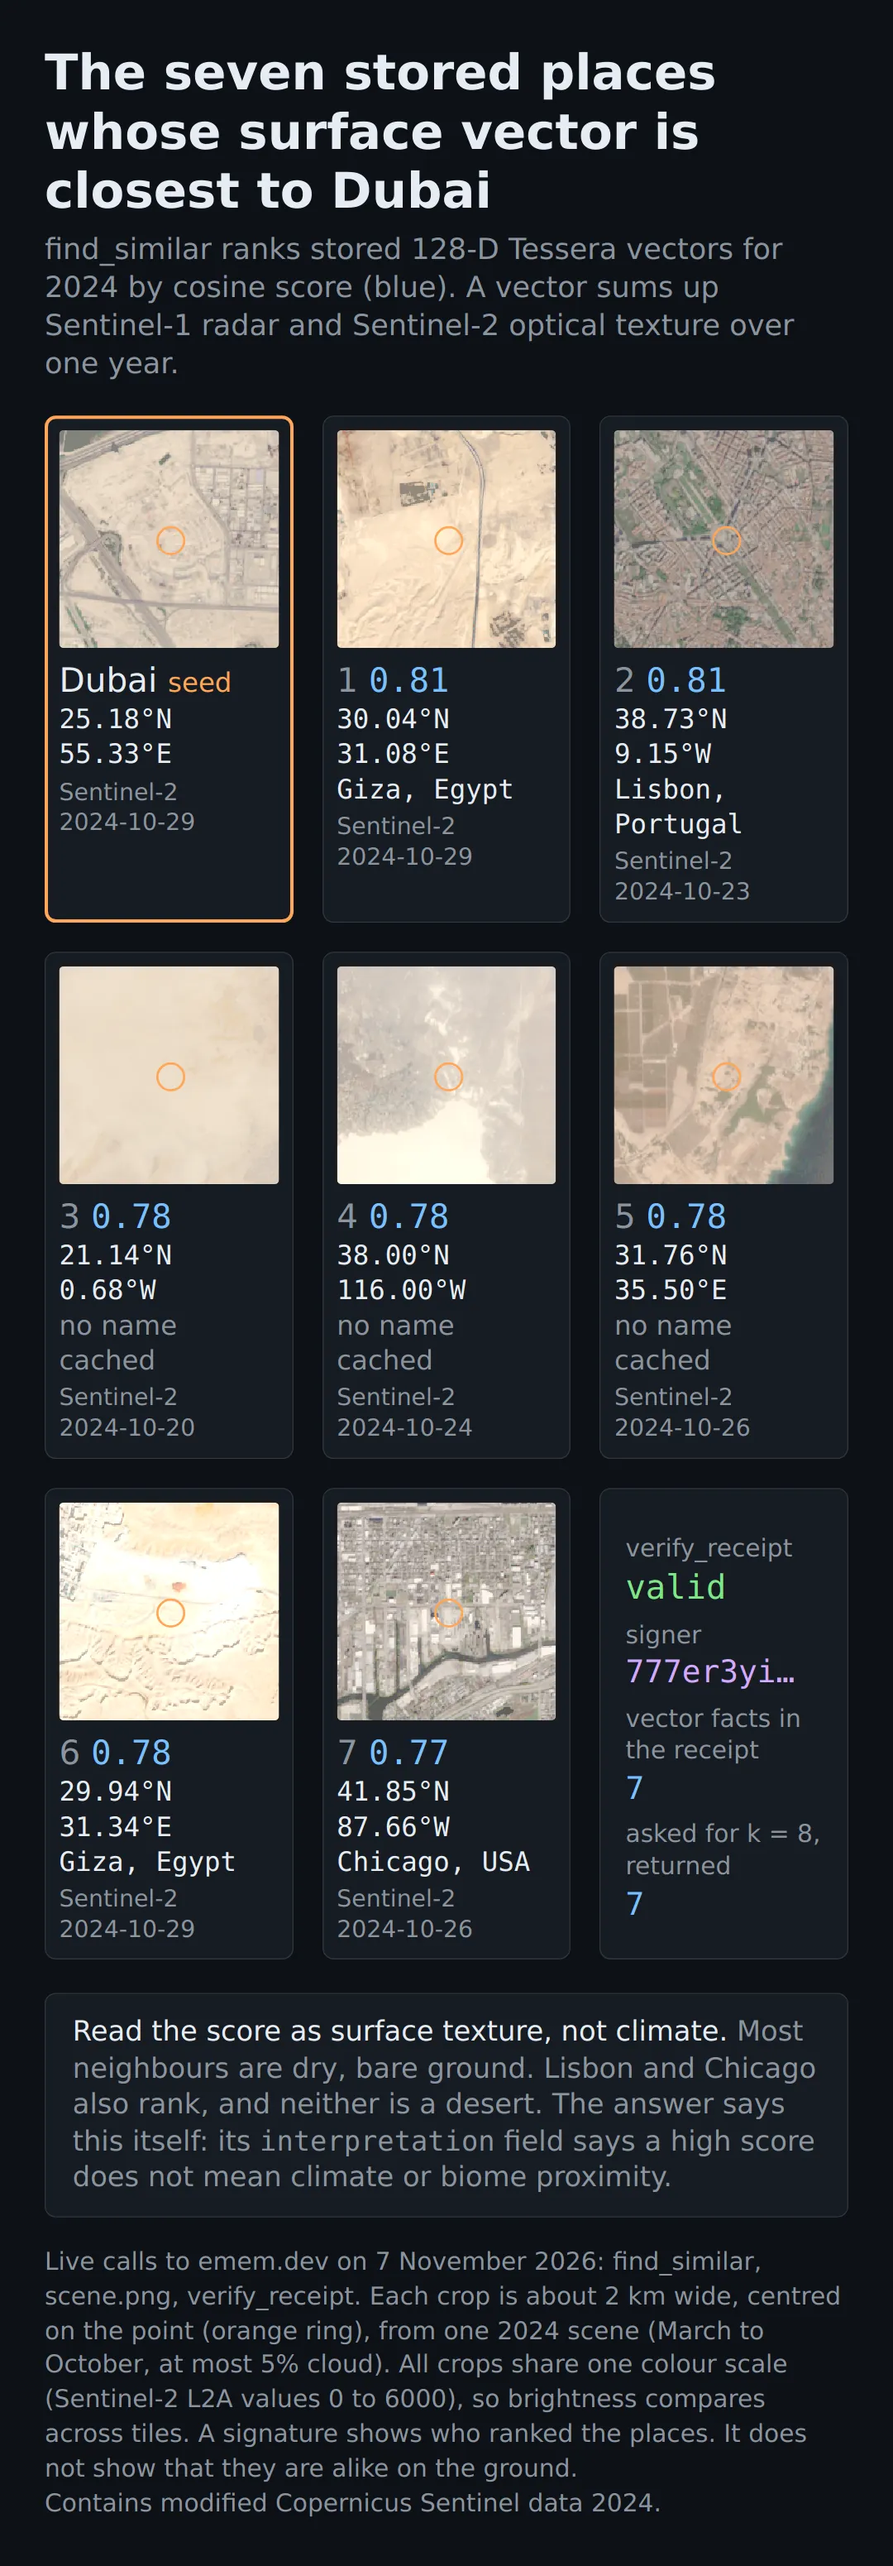
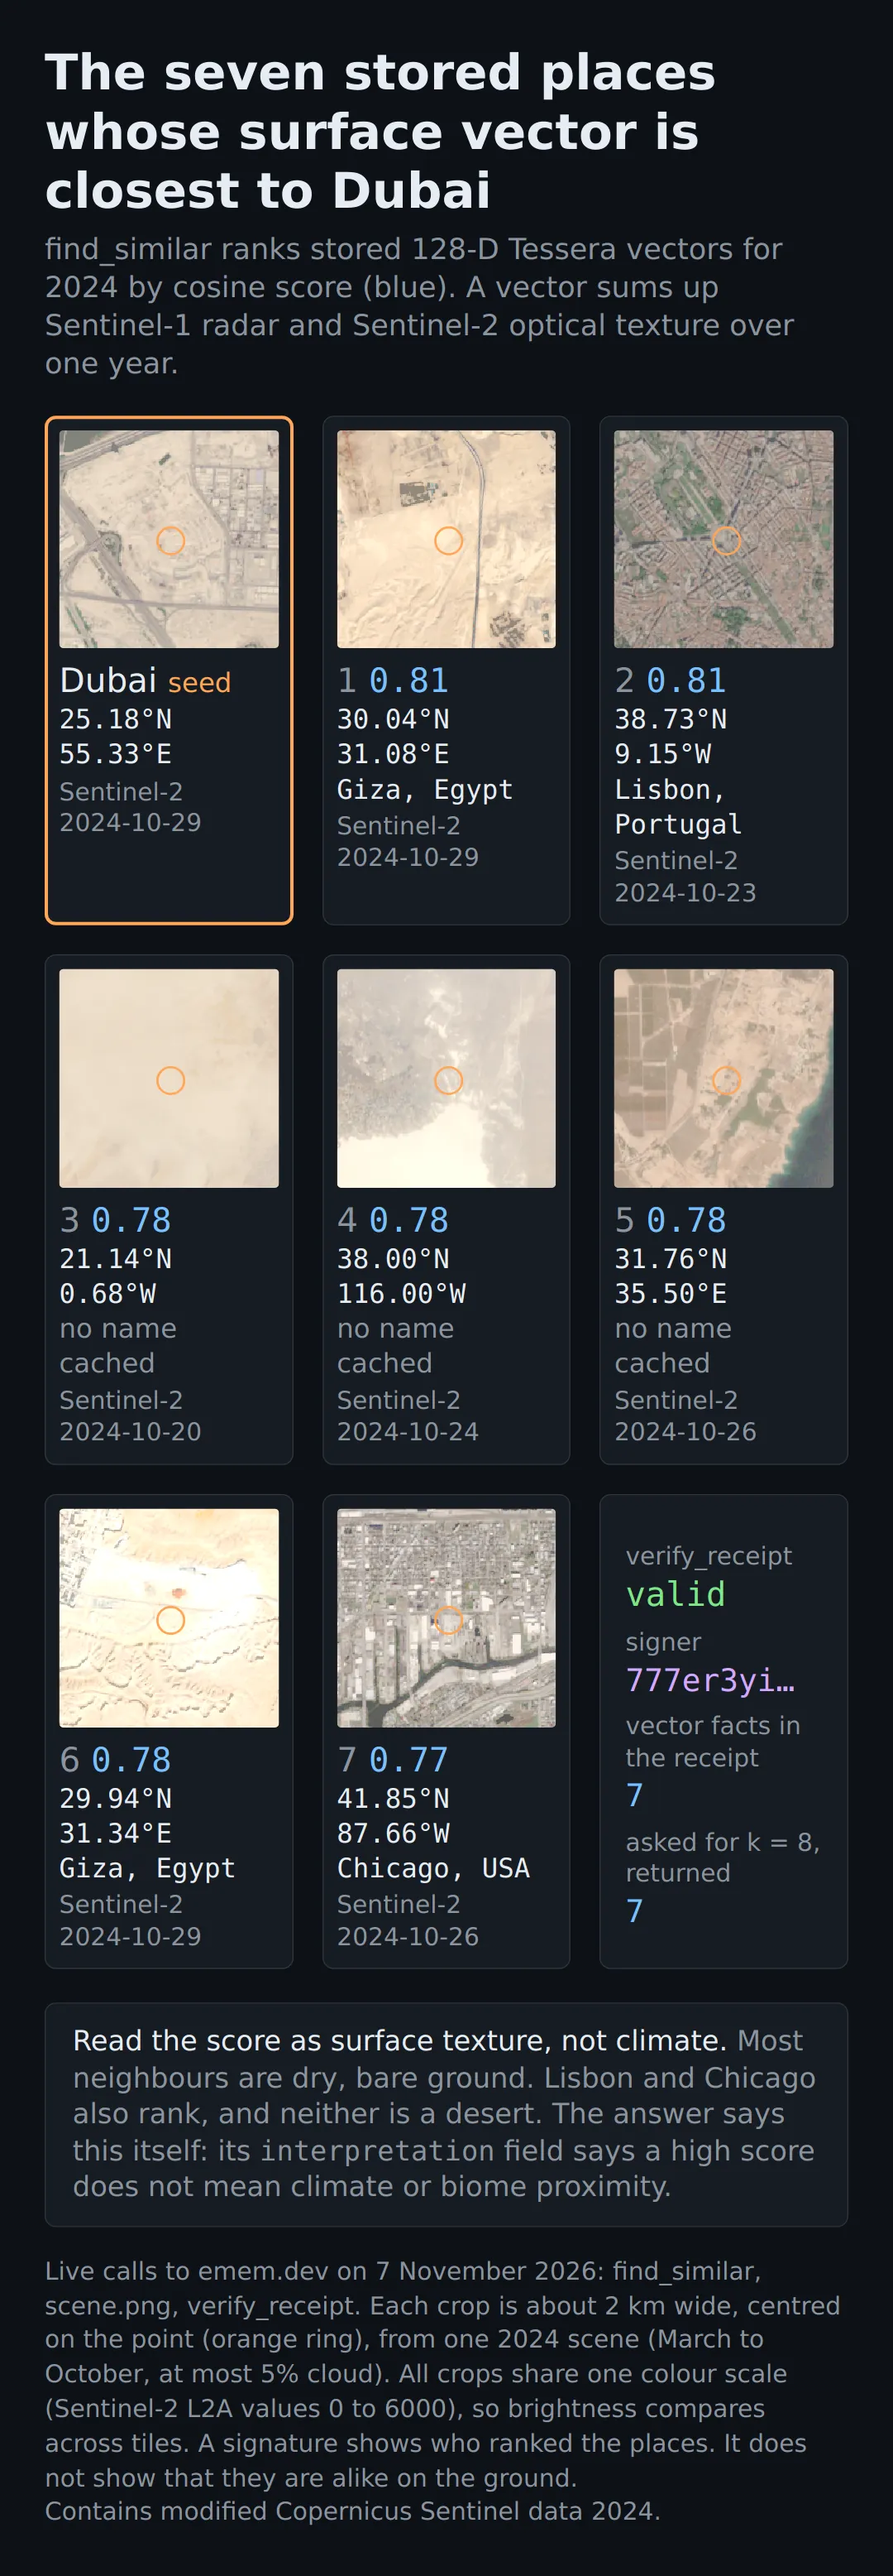
Raise the smallest still text to 22 px for phones
visual-language.md sets 22 px in the 800 px layout as the smallest text,
about 10 px on a 360 px phone. Five still scripts used 19 to 21 px for
table heads, band names, axis ticks and foot lines. They now use 22 px
and the five stills are drawn again from the same saved data.

At 22 px the band name copdem30m.elevation_mean pushed the bundle table
out of its card, so band names may now break at their dots. The rule
says so. The hero phone copy keeps 18 px because it renders at 2x.
The proposal's byte sizes for two stills are updated.

diff --git a/docs/media/stills/src/change_ledger.py b/docs/media/stills/src/change_ledger.py
@@ -130,7 +130,7 @@ h1{{font-size:42px;line-height:1.2;margin:0 0 12px}}
 .lab{{color:#8b949e;font-size:22px}}
 .bar{{position:relative;height:120px;margin:6px 10px 0}}
 .axis{{position:absolute;left:0;right:0;top:58px;border-top:2px solid #30363d}}
-.tick{{position:absolute;top:66px;color:#8b949e;font-size:20px;transform:translateX(-50%)}}
+.tick{{position:absolute;top:66px;color:#8b949e;font-size:22px;transform:translateX(-50%)}}
 .dot{{position:absolute;top:44px;width:28px;height:28px;border-radius:50%;transform:translateX(-50%)}}
 .dl{{position:absolute;top:0;font-size:24px;transform:translateX(-50%);white-space:nowrap}}
 .arrow{{position:absolute;top:57px;height:4px;background:#7ee787}}
@@ -149,7 +149,7 @@ th{{color:#8b949e;font-weight:normal;font-size:22px}}
 .split{{font-size:44px;font-family:"DejaVu Sans Mono",monospace;color:#ffa657}}
 .ok{{color:#7ee787}}
 .tok{{font-size:22px;overflow-wrap:anywhere;color:#79c0ff}}
-.foot{{color:#8b949e;font-size:21px;margin-top:22px;line-height:1.4}}
+.foot{{color:#8b949e;font-size:22px;margin-top:22px;line-height:1.4}}
 </style><div class="wrap">
 <h1>NDVI went up at one cell. The signed ledger lists the evidence for each cause. It does not split the change.</h1>
 <div class="q">Cubbon Park, Bengaluru: cell <span class="m">{led['cell']}</span> at {lat:.4f} N, {lng:.4f} E.

diff --git a/docs/media/stills/src/bundle_handoff.py b/docs/media/stills/src/bundle_handoff.py
@@ -70,7 +70,7 @@ for f in facts:
     name, fmt = LABEL[f["band"]]
     seen = f["fact"]["sources"][0]["captured_at"]
     rows.append(
-        f'<tr><td>{name}<div class="band mono">{f["band"]}</div></td>'
+        f'<tr><td>{name}<div class="band mono">{f["band"].replace(".", ".<wbr>")}</div></td>'
         f'<td class="mono num">{fmt(f["value"])}</td>'
         f'<td>{day(seen)}<div class="band mono id">{f["fact_cid"][:8]}…</div></td>'
         f'<td class="mono ok">valid</td></tr>'
@@ -99,9 +99,9 @@ h1{{font-size:44px;line-height:1.2;margin:0 0 10px}}
   overflow-wrap:anywhere}}
 table{{width:100%;border-collapse:collapse;font-size:25px;margin-top:8px}}
 td{{padding:9px 6px;border-top:1px solid #30363d;vertical-align:top}}
-th{{color:#8b949e;font-size:21px;font-weight:normal;text-align:left;padding:0 6px 4px}}
+th{{color:#8b949e;font-size:22px;font-weight:normal;text-align:left;padding:0 6px 4px}}
 .num{{font-size:27px;white-space:nowrap}}
-.band{{color:#8b949e;font-size:19px}}
+.band{{color:#8b949e;font-size:22px}}
 .key{{color:#8b949e;font-size:23px;margin-top:10px}}
 .foot{{color:#8b949e;font-size:22px;margin-top:24px;line-height:1.4}}
 </style><div class="wrap">

diff --git a/docs/media/stills/src/ask_trail.py b/docs/media/stills/src/ask_trail.py
@@ -119,12 +119,12 @@ h1{{font-size:44px;line-height:1.2;margin:0 0 10px}}
 .stage+.stage:before{{content:"";position:absolute;left:30px;top:-11px;height:10px;border-left:3px solid #30363d}}
 .sn{{font-size:26px;color:#ffa657}}
 .ss{{font-size:24px}}
-.sm{{font-size:21px;color:#8b949e;margin-top:2px}}
+.sm{{font-size:22px;color:#8b949e;margin-top:2px}}
 .fr{{display:grid;grid-template-columns:230px 1fr 80px 150px;gap:12px;align-items:center;margin-top:10px;font-size:23px}}
 .fd{{color:#8b949e}}
 .track{{background:#0d1117;border:1px solid #30363d;border-radius:6px;height:24px}}
 .bar{{background:#30363d;height:100%;border-radius:5px}} .bar.q{{background:#7ee787}}
-.fc{{font-size:21px}}
+.fc{{font-size:22px}}
 .chk{{font-size:24px;margin-top:6px}}
 .foot{{color:#8b949e;font-size:22px;margin-top:24px;line-height:1.4}}
 </style><div class="wrap">

diff --git a/docs/media/stills/src/similar_places.py b/docs/media/stills/src/similar_places.py
@@ -92,7 +92,7 @@ h1{{font-size:44px;line-height:1.2;margin:0 0 10px}}
 .cross{{position:absolute;left:50%;top:50%;width:22px;height:22px;margin:-11px 0 0 -11px;border:2px solid #ffa657;border-radius:50%}}
 .tt{{font-size:30px;margin-top:10px}}
 .ts{{color:#e6edf3;font-size:24px;font-family:"DejaVu Sans Mono",ui-monospace,monospace}}
-.td{{color:#8b949e;font-size:21px;margin-top:4px}}
+.td{{color:#8b949e;font-size:22px;margin-top:4px}}
 .tag{{color:#ffa657;font-size:24px}}
 .rk{{color:#8b949e}} .sc{{color:#79c0ff;font-family:"DejaVu Sans Mono",ui-monospace,monospace}}
 .dim{{color:#8b949e;font-family:"DejaVu Sans",system-ui,sans-serif}}

diff --git a/docs/media/stills/src/trajectory.py b/docs/media/stills/src/trajectory.py
@@ -77,7 +77,7 @@ def y(v):
     return PT + (1 - v) * (CH - PT - PB)
 
 
-svg = [f'<svg width="{CW}" height="{CH}" viewBox="0 0 {CW} {CH}" font-family="DejaVu Sans" font-size="20">']
+svg = [f'<svg width="{CW}" height="{CH}" viewBox="0 0 {CW} {CH}" font-family="DejaVu Sans" font-size="22">']
 for v in (0.0, 0.2, 0.4, 0.6, 0.8, 1.0):
     svg.append(f'<line x1="{PL}" x2="{CW - PR}" y1="{y(v):.1f}" y2="{y(v):.1f}" stroke="#30363d"/>')
     svg.append(f'<text x="{PL - 8}" y="{y(v) + 7:.1f}" fill="#8b949e" text-anchor="end">{v:.1f}</text>')

diff --git a/docs/media/README_MEDIA_PROPOSAL.md b/docs/media/README_MEDIA_PROPOSAL.md
@@ -11,8 +11,8 @@ The new files follow [visual-language.md](visual-language.md).
 |---|---|---|---|
 | 211, section "Why you can trust it" | `docs/media/readme/02-verify.gif` (1,034,577 bytes, a screen recording of the verify page) | Poster `docs/media/films/emem-fact-to-check-poster.webp` linked to `docs/media/films/emem-fact-to-check.mp4` | The section says that one changed byte changes the id and that the receipt verifies. The film shows both with live values: the receipt passes, then one changed character in the receipt fails with `signature_invalid`. |
 | 225, under the paragraph about `emem-guard` | `docs/media/readme/04-guard.gif` (231,519 bytes, a screen recording) | `docs/media/stills/guard-check.webp` (184,624 bytes) | The paragraph says that the guard answers allow or deny with a reason and a `fix`. It also says that a stricter claim rule is off by default. The still shows live verdicts on one Table Mountain fact: allow, then deny `PROV_VALUE` with `correct_value`. An uncited number passes by default and fails with `claim_gating=true`. |
-| 264, under "One record, many readers" | `docs/media/readme/11-two-agents.gif` (1,072,956 bytes, a screen recording of two Claude sessions) | `docs/media/stills/bundle-handoff.webp` (222,750 bytes) | The paragraph says that agent A hands over one bundle line and agent B resolves it and checks the signature. The still shows that handoff with live reads. A bundle from 23 September 2026 resolves on 7 November 2026 to four facts in Bengaluru. Each receipt is valid. One changed character in a fact id makes the bundle receipt fail. |
-| 285, before "Earth is the first corpus, not the limit" | `docs/media/readme/10-research.gif` (1,263,818 bytes, a screen recording of a Claude session) | `docs/media/stills/ask-trail.webp` (230,432 bytes) | The caption says that every number in the answer is a signed record. The still shows one live `/v1/ask` answer: NDVI 0.79 in Central Park. It also shows the four reasoning stages, the three signed facts and the checks. The still is not a Claude session, so the caption at line 287 must change too (text below). |
+| 264, under "One record, many readers" | `docs/media/readme/11-two-agents.gif` (1,072,956 bytes, a screen recording of two Claude sessions) | `docs/media/stills/bundle-handoff.webp` (228,238 bytes) | The paragraph says that agent A hands over one bundle line and agent B resolves it and checks the signature. The still shows that handoff with live reads. A bundle from 23 September 2026 resolves on 7 November 2026 to four facts in Bengaluru. Each receipt is valid. One changed character in a fact id makes the bundle receipt fail. |
+| 285, before "Earth is the first corpus, not the limit" | `docs/media/readme/10-research.gif` (1,263,818 bytes, a screen recording of a Claude session) | `docs/media/stills/ask-trail.webp` (228,282 bytes) | The caption says that every number in the answer is a signed record. The still shows one live `/v1/ask` answer: NDVI 0.79 in Central Park. It also shows the four reasoning stages, the three signed facts and the checks. The still is not a Claude session, so the caption at line 287 must change too (text below). |
 
 ## Markup for the swap at line 211
 

diff --git a/docs/media/visual-language.md b/docs/media/visual-language.md
@@ -39,7 +39,9 @@ Do not use colour as the only signal. Write the word too, for example `valid` or
   30 px, which is about 10 px on a phone. Keep it to two short lines. The page text next to the film must
   also repeat what the foot line says.
 - A still script lays out the page at 800 px and renders it at 1080 / 800 scale. Then the smallest text, 22 px in the
-  layout, is about 10 px on a phone. The heading is about 20 px.
+  layout, is about 10 px on a phone. The heading is about 20 px. If a long code name makes a table too
+  wide, let it break at its dots (`<wbr>`). Do not make it smaller.
+- `hero.py --phone` lays out at 540 px and renders at 2x, so its smallest text (18 px) is 12 px on a phone.
 - Diagrams in SVG keep the smallest text at 16 px in a 640 px view box, which is about 8.5 px on a phone.
   Body text is 18 px. Break a long line into two lines rather than make the text smaller.
 - A wide still with columns (the hero is 1800 px) is too small on a phone. Give it a one-column phone copy,
